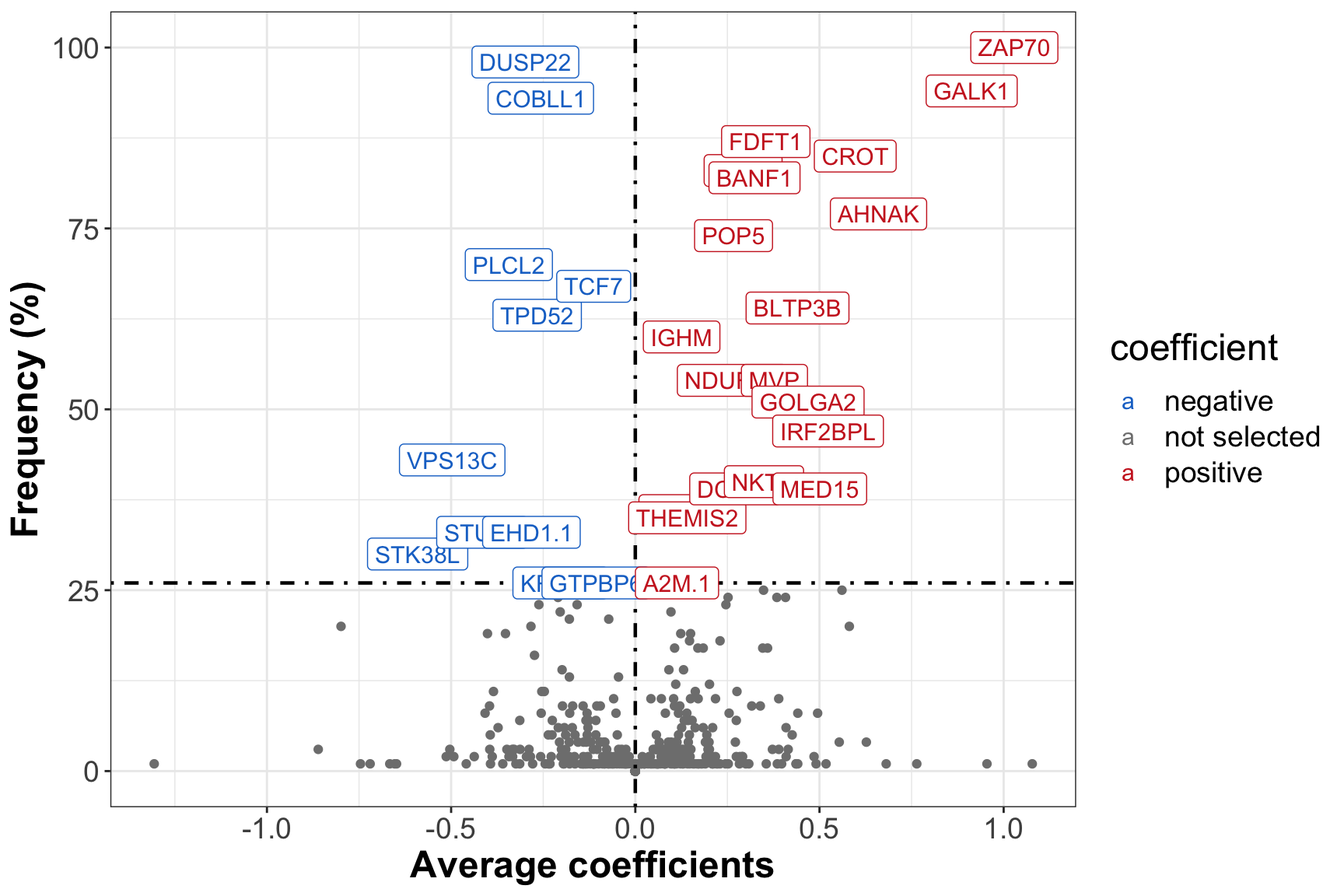
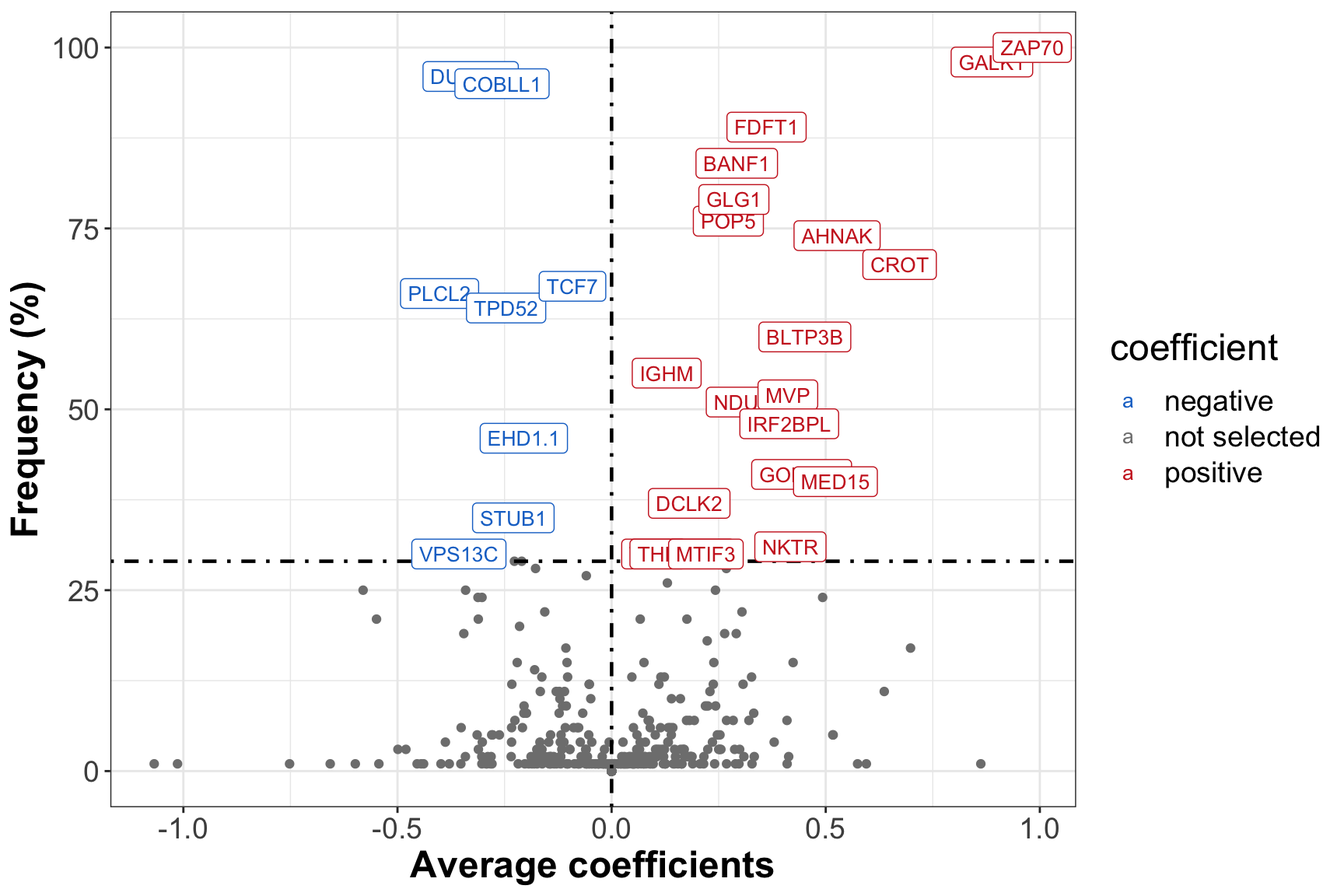
Add files via upload

diff --git a/docs/Spec_IGHV.html b/docs/Spec_IGHV.html
@@ -372,19 +372,20 @@ pre > code.sourceCode > span > a:first-child::before { text-decoration: underlin
 <span id="cb22-28"><a href="#cb22-28" aria-hidden="true" tabindex="-1"></a>  <span class="fu">arrange</span>(<span class="fu">desc</span>(value)) <span class="sc">%&gt;%</span> </span>
 <span id="cb22-29"><a href="#cb22-29" aria-hidden="true" tabindex="-1"></a>  <span class="fu">mutate</span>(<span class="at">cum =</span> <span class="fu">cumsum</span>(count), <span class="at">dif =</span> cum <span class="sc">-</span> NR ) <span class="sc">%&gt;%</span></span>
 <span id="cb22-30"><a href="#cb22-30" aria-hidden="true" tabindex="-1"></a>  <span class="fu">filter</span>(<span class="fu">abs</span>(dif) <span class="sc">==</span> <span class="fu">min</span>(<span class="fu">abs</span>(dif))) <span class="sc">%&gt;%</span></span>
-<span id="cb22-31"><a href="#cb22-31" aria-hidden="true" tabindex="-1"></a>  <span class="fu">pull</span>(value)</span>
-<span id="cb22-32"><a href="#cb22-32" aria-hidden="true" tabindex="-1"></a><span class="co"># frequency vs mean plot</span></span>
-<span id="cb22-33"><a href="#cb22-33" aria-hidden="true" tabindex="-1"></a>sumDF <span class="ot">&lt;-</span> <span class="fu">apply</span>(coefMat, <span class="dv">1</span>, <span class="cf">function</span>(v) <span class="fu">c</span>(<span class="at">mean =</span> <span class="fu">mean</span>(v[v <span class="sc">!=</span> <span class="dv">0</span>]), <span class="at">sd =</span> <span class="fu">sd</span>(v[v <span class="sc">!=</span> <span class="dv">0</span>]))) <span class="sc">%&gt;%</span> </span>
-<span id="cb22-34"><a href="#cb22-34" aria-hidden="true" tabindex="-1"></a>  <span class="fu">ifelse</span>(<span class="fu">is.nan</span>(.) <span class="sc">|</span> <span class="fu">is.na</span>(.), <span class="dv">0</span>, .) <span class="sc">%&gt;%</span></span>
-<span id="cb22-35"><a href="#cb22-35" aria-hidden="true" tabindex="-1"></a>  <span class="fu">t</span>() <span class="sc">%&gt;%</span> </span>
-<span id="cb22-36"><a href="#cb22-36" aria-hidden="true" tabindex="-1"></a>  <span class="fu">as_tibble</span>(<span class="at">rownames =</span> <span class="st">"geneID"</span>) <span class="sc">%&gt;%</span></span>
-<span id="cb22-37"><a href="#cb22-37" aria-hidden="true" tabindex="-1"></a>  <span class="fu">left_join</span>(<span class="fu">as_tibble</span>(<span class="at">rownames =</span> <span class="st">"geneID"</span>, <span class="fu">rowSums</span>(coefMat <span class="sc">!=</span> <span class="dv">0</span>) <span class="sc">/</span> repetition <span class="sc">*</span> <span class="dv">100</span>))  <span class="sc">%&gt;%</span></span>
-<span id="cb22-38"><a href="#cb22-38" aria-hidden="true" tabindex="-1"></a>  <span class="fu">setNames</span>(<span class="fu">c</span>(<span class="st">"geneID"</span>, <span class="st">"mean"</span>, <span class="st">"sd"</span>, <span class="st">"frequency"</span>)) <span class="sc">%&gt;%</span></span>
-<span id="cb22-39"><a href="#cb22-39" aria-hidden="true" tabindex="-1"></a>  <span class="fu">mutate</span>(<span class="at">coefficient =</span> <span class="fu">case_when</span>(mean <span class="sc">&gt;</span> <span class="dv">0</span> <span class="sc">&amp;</span> frequency <span class="sc">&gt;=</span> cutoff <span class="sc">~</span> <span class="st">"positive"</span>, </span>
-<span id="cb22-40"><a href="#cb22-40" aria-hidden="true" tabindex="-1"></a>                                 mean <span class="sc">==</span> <span class="dv">0</span> <span class="sc">|</span> frequency <span class="sc">&lt;</span> cutoff <span class="sc">~</span> <span class="st">"not selected"</span>,</span>
-<span id="cb22-41"><a href="#cb22-41" aria-hidden="true" tabindex="-1"></a>                                 mean <span class="sc">&lt;</span> <span class="dv">0</span> <span class="sc">&amp;</span> frequency <span class="sc">&gt;=</span> cutoff <span class="sc">~</span> <span class="st">"negative"</span>),</span>
-<span id="cb22-42"><a href="#cb22-42" aria-hidden="true" tabindex="-1"></a>         <span class="at">delabel =</span> <span class="fu">ifelse</span>(coefficient <span class="sc">==</span> <span class="st">"not selected"</span>, <span class="cn">NA</span>, geneID))  <span class="sc">%&gt;%</span></span>
-<span id="cb22-43"><a href="#cb22-43" aria-hidden="true" tabindex="-1"></a>  <span class="fu">arrange</span>(mean)</span></code><button title="Copy to Clipboard" class="code-copy-button"><i class="bi"></i></button></pre></div>
+<span id="cb22-31"><a href="#cb22-31" aria-hidden="true" tabindex="-1"></a>  <span class="fu">pull</span>(value) <span class="sc">%&gt;%</span></span>
+<span id="cb22-32"><a href="#cb22-32" aria-hidden="true" tabindex="-1"></a>  <span class="fu">min</span>()</span>
+<span id="cb22-33"><a href="#cb22-33" aria-hidden="true" tabindex="-1"></a><span class="co"># frequency vs mean plot</span></span>
+<span id="cb22-34"><a href="#cb22-34" aria-hidden="true" tabindex="-1"></a>sumDF <span class="ot">&lt;-</span> <span class="fu">apply</span>(coefMat, <span class="dv">1</span>, <span class="cf">function</span>(v) <span class="fu">c</span>(<span class="at">mean =</span> <span class="fu">mean</span>(v[v <span class="sc">!=</span> <span class="dv">0</span>]), <span class="at">sd =</span> <span class="fu">sd</span>(v[v <span class="sc">!=</span> <span class="dv">0</span>]))) <span class="sc">%&gt;%</span> </span>
+<span id="cb22-35"><a href="#cb22-35" aria-hidden="true" tabindex="-1"></a>  <span class="fu">ifelse</span>(<span class="fu">is.nan</span>(.) <span class="sc">|</span> <span class="fu">is.na</span>(.), <span class="dv">0</span>, .) <span class="sc">%&gt;%</span></span>
+<span id="cb22-36"><a href="#cb22-36" aria-hidden="true" tabindex="-1"></a>  <span class="fu">t</span>() <span class="sc">%&gt;%</span> </span>
+<span id="cb22-37"><a href="#cb22-37" aria-hidden="true" tabindex="-1"></a>  <span class="fu">as_tibble</span>(<span class="at">rownames =</span> <span class="st">"geneID"</span>) <span class="sc">%&gt;%</span></span>
+<span id="cb22-38"><a href="#cb22-38" aria-hidden="true" tabindex="-1"></a>  <span class="fu">left_join</span>(<span class="fu">as_tibble</span>(<span class="at">rownames =</span> <span class="st">"geneID"</span>, <span class="fu">rowSums</span>(coefMat <span class="sc">!=</span> <span class="dv">0</span>) <span class="sc">/</span> repetition <span class="sc">*</span> <span class="dv">100</span>))  <span class="sc">%&gt;%</span></span>
+<span id="cb22-39"><a href="#cb22-39" aria-hidden="true" tabindex="-1"></a>  <span class="fu">setNames</span>(<span class="fu">c</span>(<span class="st">"geneID"</span>, <span class="st">"mean"</span>, <span class="st">"sd"</span>, <span class="st">"frequency"</span>)) <span class="sc">%&gt;%</span></span>
+<span id="cb22-40"><a href="#cb22-40" aria-hidden="true" tabindex="-1"></a>  <span class="fu">mutate</span>(<span class="at">coefficient =</span> <span class="fu">case_when</span>(mean <span class="sc">&gt;</span> <span class="dv">0</span> <span class="sc">&amp;</span> frequency <span class="sc">&gt;=</span> cutoff <span class="sc">~</span> <span class="st">"positive"</span>, </span>
+<span id="cb22-41"><a href="#cb22-41" aria-hidden="true" tabindex="-1"></a>                                 mean <span class="sc">==</span> <span class="dv">0</span> <span class="sc">|</span> frequency <span class="sc">&lt;</span> cutoff <span class="sc">~</span> <span class="st">"not selected"</span>,</span>
+<span id="cb22-42"><a href="#cb22-42" aria-hidden="true" tabindex="-1"></a>                                 mean <span class="sc">&lt;</span> <span class="dv">0</span> <span class="sc">&amp;</span> frequency <span class="sc">&gt;=</span> cutoff <span class="sc">~</span> <span class="st">"negative"</span>),</span>
+<span id="cb22-43"><a href="#cb22-43" aria-hidden="true" tabindex="-1"></a>         <span class="at">delabel =</span> <span class="fu">ifelse</span>(coefficient <span class="sc">==</span> <span class="st">"not selected"</span>, <span class="cn">NA</span>, geneID))  <span class="sc">%&gt;%</span></span>
+<span id="cb22-44"><a href="#cb22-44" aria-hidden="true" tabindex="-1"></a>  <span class="fu">arrange</span>(mean)</span></code><button title="Copy to Clipboard" class="code-copy-button"><i class="bi"></i></button></pre></div>
 <div class="cell-output cell-output-stderr">
 <pre><code>Joining with `by = join_by(geneID)`</code></pre>
 </div>
@@ -393,7 +394,7 @@ pre > code.sourceCode > span > a:first-child::before { text-decoration: underlin
 <span id="cb24-3"><a href="#cb24-3" aria-hidden="true" tabindex="-1"></a>  <span class="fu">scale_color_manual</span>(<span class="at">values =</span> <span class="fu">c</span>(<span class="st">"dodgerblue3"</span>, <span class="st">"gray50"</span>, <span class="st">"firebrick3"</span>)) <span class="sc">+</span></span>
 <span id="cb24-4"><a href="#cb24-4" aria-hidden="true" tabindex="-1"></a>  <span class="fu">geom_hline</span>(<span class="at">yintercept =</span> cutoff, <span class="at">lty =</span> <span class="dv">4</span>, <span class="at">col =</span> <span class="st">"black"</span>, <span class="at">lwd =</span> <span class="fl">0.8</span>) <span class="sc">+</span></span>
 <span id="cb24-5"><a href="#cb24-5" aria-hidden="true" tabindex="-1"></a>  <span class="fu">geom_vline</span>(<span class="at">xintercept =</span> <span class="dv">0</span>, <span class="at">lty =</span> <span class="dv">4</span>, <span class="at">col =</span> <span class="st">"black"</span>, <span class="at">lwd =</span> <span class="fl">0.8</span>) <span class="sc">+</span></span>
-<span id="cb24-6"><a href="#cb24-6" aria-hidden="true" tabindex="-1"></a>  <span class="fu">geom_label</span>(<span class="fu">aes</span>(<span class="at">label =</span> delabel), <span class="at">size =</span> <span class="dv">4</span>) <span class="sc">+</span></span>
+<span id="cb24-6"><a href="#cb24-6" aria-hidden="true" tabindex="-1"></a>  <span class="fu">geom_label</span>(<span class="fu">aes</span>(<span class="at">label =</span> delabel), <span class="at">size =</span> <span class="fl">3.5</span>) <span class="sc">+</span></span>
 <span id="cb24-7"><a href="#cb24-7" aria-hidden="true" tabindex="-1"></a>  <span class="fu">labs</span>(<span class="at">x =</span> <span class="st">"Average coefficients"</span>, <span class="at">y =</span> <span class="st">"Frequency (%)"</span>) <span class="sc">+</span></span>
 <span id="cb24-8"><a href="#cb24-8" aria-hidden="true" tabindex="-1"></a>  <span class="fu">theme_bw</span>() <span class="sc">+</span> </span>
 <span id="cb24-9"><a href="#cb24-9" aria-hidden="true" tabindex="-1"></a>  <span class="fu">theme</span>(<span class="at">axis.text =</span> <span class="fu">element_text</span>(<span class="at">size =</span> <span class="dv">14</span>),</span>
@@ -401,7 +402,7 @@ pre > code.sourceCode > span > a:first-child::before { text-decoration: underlin
 <span id="cb24-11"><a href="#cb24-11" aria-hidden="true" tabindex="-1"></a>        <span class="at">legend.title =</span> <span class="fu">element_text</span>(<span class="at">size =</span> <span class="dv">18</span>),</span>
 <span id="cb24-12"><a href="#cb24-12" aria-hidden="true" tabindex="-1"></a>        <span class="at">legend.text =</span> <span class="fu">element_text</span>(<span class="at">size =</span> <span class="dv">14</span>))</span></code><button title="Copy to Clipboard" class="code-copy-button"><i class="bi"></i></button></pre></div>
 <div class="cell-output cell-output-stderr">
-<pre><code>Warning: Removed 5843 rows containing missing values (`geom_label()`).</code></pre>
+<pre><code>Warning: Removed 5844 rows containing missing values (`geom_label()`).</code></pre>
 </div>
 <div class="cell-output-display">
 <p><img src="Spec_IGHV_files/figure-html/unnamed-chunk-6-1.png" class="img-fluid" width="864"></p>
@@ -560,19 +561,20 @@ pre > code.sourceCode > span > a:first-child::before { text-decoration: underlin
 <span id="cb37-28"><a href="#cb37-28" aria-hidden="true" tabindex="-1"></a>  <span class="fu">arrange</span>(<span class="fu">desc</span>(value)) <span class="sc">%&gt;%</span> </span>
 <span id="cb37-29"><a href="#cb37-29" aria-hidden="true" tabindex="-1"></a>  <span class="fu">mutate</span>(<span class="at">cum =</span> <span class="fu">cumsum</span>(count), <span class="at">dif =</span> cum <span class="sc">-</span> NR ) <span class="sc">%&gt;%</span></span>
 <span id="cb37-30"><a href="#cb37-30" aria-hidden="true" tabindex="-1"></a>  <span class="fu">filter</span>(<span class="fu">abs</span>(dif) <span class="sc">==</span> <span class="fu">min</span>(<span class="fu">abs</span>(dif))) <span class="sc">%&gt;%</span></span>
-<span id="cb37-31"><a href="#cb37-31" aria-hidden="true" tabindex="-1"></a>  <span class="fu">pull</span>(value)</span>
-<span id="cb37-32"><a href="#cb37-32" aria-hidden="true" tabindex="-1"></a><span class="co"># frequency vs mean plot</span></span>
-<span id="cb37-33"><a href="#cb37-33" aria-hidden="true" tabindex="-1"></a>sumDF <span class="ot">&lt;-</span> <span class="fu">apply</span>(coefMat, <span class="dv">1</span>, <span class="cf">function</span>(v) <span class="fu">c</span>(<span class="at">mean =</span> <span class="fu">mean</span>(v[v <span class="sc">!=</span> <span class="dv">0</span>]), <span class="at">sd =</span> <span class="fu">sd</span>(v[v <span class="sc">!=</span> <span class="dv">0</span>]))) <span class="sc">%&gt;%</span> </span>
-<span id="cb37-34"><a href="#cb37-34" aria-hidden="true" tabindex="-1"></a>  <span class="fu">ifelse</span>(<span class="fu">is.nan</span>(.) <span class="sc">|</span> <span class="fu">is.na</span>(.), <span class="dv">0</span>, .) <span class="sc">%&gt;%</span></span>
-<span id="cb37-35"><a href="#cb37-35" aria-hidden="true" tabindex="-1"></a>  <span class="fu">t</span>() <span class="sc">%&gt;%</span> </span>
-<span id="cb37-36"><a href="#cb37-36" aria-hidden="true" tabindex="-1"></a>  <span class="fu">as_tibble</span>(<span class="at">rownames =</span> <span class="st">"geneID"</span>) <span class="sc">%&gt;%</span></span>
-<span id="cb37-37"><a href="#cb37-37" aria-hidden="true" tabindex="-1"></a>  <span class="fu">left_join</span>(<span class="fu">as_tibble</span>(<span class="at">rownames =</span> <span class="st">"geneID"</span>, <span class="fu">rowSums</span>(coefMat <span class="sc">!=</span> <span class="dv">0</span>) <span class="sc">/</span> repetition <span class="sc">*</span> <span class="dv">100</span>))  <span class="sc">%&gt;%</span></span>
-<span id="cb37-38"><a href="#cb37-38" aria-hidden="true" tabindex="-1"></a>  <span class="fu">setNames</span>(<span class="fu">c</span>(<span class="st">"geneID"</span>, <span class="st">"mean"</span>, <span class="st">"sd"</span>, <span class="st">"frequency"</span>)) <span class="sc">%&gt;%</span></span>
-<span id="cb37-39"><a href="#cb37-39" aria-hidden="true" tabindex="-1"></a>  <span class="fu">mutate</span>(<span class="at">coefficient =</span> <span class="fu">case_when</span>(mean <span class="sc">&gt;</span> <span class="dv">0</span> <span class="sc">&amp;</span> frequency <span class="sc">&gt;=</span> cutoff <span class="sc">~</span> <span class="st">"positive"</span>, </span>
-<span id="cb37-40"><a href="#cb37-40" aria-hidden="true" tabindex="-1"></a>                                 mean <span class="sc">==</span> <span class="dv">0</span> <span class="sc">|</span> frequency <span class="sc">&lt;</span> cutoff <span class="sc">~</span> <span class="st">"not selected"</span>,</span>
-<span id="cb37-41"><a href="#cb37-41" aria-hidden="true" tabindex="-1"></a>                                 mean <span class="sc">&lt;</span> <span class="dv">0</span> <span class="sc">&amp;</span> frequency <span class="sc">&gt;=</span> cutoff <span class="sc">~</span> <span class="st">"negative"</span>),</span>
-<span id="cb37-42"><a href="#cb37-42" aria-hidden="true" tabindex="-1"></a>         <span class="at">delabel =</span> <span class="fu">ifelse</span>(coefficient <span class="sc">==</span> <span class="st">"not selected"</span>, <span class="cn">NA</span>, geneID))  <span class="sc">%&gt;%</span></span>
-<span id="cb37-43"><a href="#cb37-43" aria-hidden="true" tabindex="-1"></a>  <span class="fu">arrange</span>(mean)</span></code><button title="Copy to Clipboard" class="code-copy-button"><i class="bi"></i></button></pre></div>
+<span id="cb37-31"><a href="#cb37-31" aria-hidden="true" tabindex="-1"></a>  <span class="fu">pull</span>(value) <span class="sc">%&gt;%</span></span>
+<span id="cb37-32"><a href="#cb37-32" aria-hidden="true" tabindex="-1"></a>  <span class="fu">min</span>()</span>
+<span id="cb37-33"><a href="#cb37-33" aria-hidden="true" tabindex="-1"></a><span class="co"># frequency vs mean plot</span></span>
+<span id="cb37-34"><a href="#cb37-34" aria-hidden="true" tabindex="-1"></a>sumDF <span class="ot">&lt;-</span> <span class="fu">apply</span>(coefMat, <span class="dv">1</span>, <span class="cf">function</span>(v) <span class="fu">c</span>(<span class="at">mean =</span> <span class="fu">mean</span>(v[v <span class="sc">!=</span> <span class="dv">0</span>]), <span class="at">sd =</span> <span class="fu">sd</span>(v[v <span class="sc">!=</span> <span class="dv">0</span>]))) <span class="sc">%&gt;%</span> </span>
+<span id="cb37-35"><a href="#cb37-35" aria-hidden="true" tabindex="-1"></a>  <span class="fu">ifelse</span>(<span class="fu">is.nan</span>(.) <span class="sc">|</span> <span class="fu">is.na</span>(.), <span class="dv">0</span>, .) <span class="sc">%&gt;%</span></span>
+<span id="cb37-36"><a href="#cb37-36" aria-hidden="true" tabindex="-1"></a>  <span class="fu">t</span>() <span class="sc">%&gt;%</span> </span>
+<span id="cb37-37"><a href="#cb37-37" aria-hidden="true" tabindex="-1"></a>  <span class="fu">as_tibble</span>(<span class="at">rownames =</span> <span class="st">"geneID"</span>) <span class="sc">%&gt;%</span></span>
+<span id="cb37-38"><a href="#cb37-38" aria-hidden="true" tabindex="-1"></a>  <span class="fu">left_join</span>(<span class="fu">as_tibble</span>(<span class="at">rownames =</span> <span class="st">"geneID"</span>, <span class="fu">rowSums</span>(coefMat <span class="sc">!=</span> <span class="dv">0</span>) <span class="sc">/</span> repetition <span class="sc">*</span> <span class="dv">100</span>))  <span class="sc">%&gt;%</span></span>
+<span id="cb37-39"><a href="#cb37-39" aria-hidden="true" tabindex="-1"></a>  <span class="fu">setNames</span>(<span class="fu">c</span>(<span class="st">"geneID"</span>, <span class="st">"mean"</span>, <span class="st">"sd"</span>, <span class="st">"frequency"</span>)) <span class="sc">%&gt;%</span></span>
+<span id="cb37-40"><a href="#cb37-40" aria-hidden="true" tabindex="-1"></a>  <span class="fu">mutate</span>(<span class="at">coefficient =</span> <span class="fu">case_when</span>(mean <span class="sc">&gt;</span> <span class="dv">0</span> <span class="sc">&amp;</span> frequency <span class="sc">&gt;=</span> cutoff <span class="sc">~</span> <span class="st">"positive"</span>, </span>
+<span id="cb37-41"><a href="#cb37-41" aria-hidden="true" tabindex="-1"></a>                                 mean <span class="sc">==</span> <span class="dv">0</span> <span class="sc">|</span> frequency <span class="sc">&lt;</span> cutoff <span class="sc">~</span> <span class="st">"not selected"</span>,</span>
+<span id="cb37-42"><a href="#cb37-42" aria-hidden="true" tabindex="-1"></a>                                 mean <span class="sc">&lt;</span> <span class="dv">0</span> <span class="sc">&amp;</span> frequency <span class="sc">&gt;=</span> cutoff <span class="sc">~</span> <span class="st">"negative"</span>),</span>
+<span id="cb37-43"><a href="#cb37-43" aria-hidden="true" tabindex="-1"></a>         <span class="at">delabel =</span> <span class="fu">ifelse</span>(coefficient <span class="sc">==</span> <span class="st">"not selected"</span>, <span class="cn">NA</span>, geneID))  <span class="sc">%&gt;%</span></span>
+<span id="cb37-44"><a href="#cb37-44" aria-hidden="true" tabindex="-1"></a>  <span class="fu">arrange</span>(mean)</span></code><button title="Copy to Clipboard" class="code-copy-button"><i class="bi"></i></button></pre></div>
 <div class="cell-output cell-output-stderr">
 <pre><code>Joining with `by = join_by(geneID)`</code></pre>
 </div>
@@ -581,7 +583,7 @@ pre > code.sourceCode > span > a:first-child::before { text-decoration: underlin
 <span id="cb39-3"><a href="#cb39-3" aria-hidden="true" tabindex="-1"></a>  <span class="fu">scale_color_manual</span>(<span class="at">values =</span> <span class="fu">c</span>(<span class="st">"dodgerblue3"</span>, <span class="st">"gray50"</span>, <span class="st">"firebrick3"</span>)) <span class="sc">+</span></span>
 <span id="cb39-4"><a href="#cb39-4" aria-hidden="true" tabindex="-1"></a>  <span class="fu">geom_hline</span>(<span class="at">yintercept =</span> cutoff, <span class="at">lty =</span> <span class="dv">4</span>, <span class="at">col =</span> <span class="st">"black"</span>, <span class="at">lwd =</span> <span class="fl">0.8</span>) <span class="sc">+</span></span>
 <span id="cb39-5"><a href="#cb39-5" aria-hidden="true" tabindex="-1"></a>  <span class="fu">geom_vline</span>(<span class="at">xintercept =</span> <span class="dv">0</span>, <span class="at">lty =</span> <span class="dv">4</span>, <span class="at">col =</span> <span class="st">"black"</span>, <span class="at">lwd =</span> <span class="fl">0.8</span>) <span class="sc">+</span></span>
-<span id="cb39-6"><a href="#cb39-6" aria-hidden="true" tabindex="-1"></a>  <span class="fu">geom_label</span>(<span class="fu">aes</span>(<span class="at">label =</span> delabel), <span class="at">size =</span> <span class="dv">4</span>) <span class="sc">+</span></span>
+<span id="cb39-6"><a href="#cb39-6" aria-hidden="true" tabindex="-1"></a>  <span class="fu">geom_label</span>(<span class="fu">aes</span>(<span class="at">label =</span> delabel), <span class="at">size =</span> <span class="fl">3.5</span>) <span class="sc">+</span></span>
 <span id="cb39-7"><a href="#cb39-7" aria-hidden="true" tabindex="-1"></a>  <span class="fu">labs</span>(<span class="at">x =</span> <span class="st">"Average coefficients"</span>, <span class="at">y =</span> <span class="st">"Frequency (%)"</span>) <span class="sc">+</span></span>
 <span id="cb39-8"><a href="#cb39-8" aria-hidden="true" tabindex="-1"></a>  <span class="fu">theme_bw</span>() <span class="sc">+</span> </span>
 <span id="cb39-9"><a href="#cb39-9" aria-hidden="true" tabindex="-1"></a>  <span class="fu">theme</span>(<span class="at">axis.text =</span> <span class="fu">element_text</span>(<span class="at">size =</span> <span class="dv">14</span>),</span>

diff --git a/docs/Diann_IGHV.html b/docs/Diann_IGHV.html
@@ -391,7 +391,7 @@ pre > code.sourceCode > span > a:first-child::before { text-decoration: underlin
 <span id="cb22-3"><a href="#cb22-3" aria-hidden="true" tabindex="-1"></a>  <span class="fu">scale_color_manual</span>(<span class="at">values =</span> <span class="fu">c</span>(<span class="st">"dodgerblue3"</span>, <span class="st">"gray50"</span>, <span class="st">"firebrick3"</span>)) <span class="sc">+</span></span>
 <span id="cb22-4"><a href="#cb22-4" aria-hidden="true" tabindex="-1"></a>  <span class="fu">geom_hline</span>(<span class="at">yintercept =</span> cutoff, <span class="at">lty =</span> <span class="dv">4</span>, <span class="at">col =</span> <span class="st">"black"</span>, <span class="at">lwd =</span> <span class="fl">0.8</span>) <span class="sc">+</span></span>
 <span id="cb22-5"><a href="#cb22-5" aria-hidden="true" tabindex="-1"></a>  <span class="fu">geom_vline</span>(<span class="at">xintercept =</span> <span class="dv">0</span>, <span class="at">lty =</span> <span class="dv">4</span>, <span class="at">col =</span> <span class="st">"black"</span>, <span class="at">lwd =</span> <span class="fl">0.8</span>) <span class="sc">+</span></span>
-<span id="cb22-6"><a href="#cb22-6" aria-hidden="true" tabindex="-1"></a>  <span class="fu">geom_label</span>(<span class="fu">aes</span>(<span class="at">label =</span> delabel), <span class="at">size =</span> <span class="dv">4</span>) <span class="sc">+</span></span>
+<span id="cb22-6"><a href="#cb22-6" aria-hidden="true" tabindex="-1"></a>  <span class="fu">geom_label</span>(<span class="fu">aes</span>(<span class="at">label =</span> delabel), <span class="at">size =</span> <span class="fl">3.5</span>) <span class="sc">+</span></span>
 <span id="cb22-7"><a href="#cb22-7" aria-hidden="true" tabindex="-1"></a>  <span class="fu">labs</span>(<span class="at">x =</span> <span class="st">"Average coefficients"</span>, <span class="at">y =</span> <span class="st">"Frequency (%)"</span>) <span class="sc">+</span></span>
 <span id="cb22-8"><a href="#cb22-8" aria-hidden="true" tabindex="-1"></a>  <span class="fu">theme_bw</span>() <span class="sc">+</span> </span>
 <span id="cb22-9"><a href="#cb22-9" aria-hidden="true" tabindex="-1"></a>  <span class="fu">theme</span>(<span class="at">axis.text =</span> <span class="fu">element_text</span>(<span class="at">size =</span> <span class="dv">14</span>),</span>
@@ -399,7 +399,7 @@ pre > code.sourceCode > span > a:first-child::before { text-decoration: underlin
 <span id="cb22-11"><a href="#cb22-11" aria-hidden="true" tabindex="-1"></a>        <span class="at">legend.title =</span> <span class="fu">element_text</span>(<span class="at">size =</span> <span class="dv">18</span>),</span>
 <span id="cb22-12"><a href="#cb22-12" aria-hidden="true" tabindex="-1"></a>        <span class="at">legend.text =</span> <span class="fu">element_text</span>(<span class="at">size =</span> <span class="dv">14</span>))</span></code><button title="Copy to Clipboard" class="code-copy-button"><i class="bi"></i></button></pre></div>
 <div class="cell-output cell-output-stderr">
-<pre><code>Warning: Removed 6650 rows containing missing values (`geom_label()`).</code></pre>
+<pre><code>Warning: Removed 6653 rows containing missing values (`geom_label()`).</code></pre>
 </div>
 <div class="cell-output-display">
 <p><img src="Diann_IGHV_files/figure-html/unnamed-chunk-6-1.png" class="img-fluid" width="864"></p>
@@ -558,19 +558,20 @@ pre > code.sourceCode > span > a:first-child::before { text-decoration: underlin
 <span id="cb35-28"><a href="#cb35-28" aria-hidden="true" tabindex="-1"></a>  <span class="fu">arrange</span>(<span class="fu">desc</span>(value)) <span class="sc">%&gt;%</span> </span>
 <span id="cb35-29"><a href="#cb35-29" aria-hidden="true" tabindex="-1"></a>  <span class="fu">mutate</span>(<span class="at">cum =</span> <span class="fu">cumsum</span>(count), <span class="at">dif =</span> cum <span class="sc">-</span> NR ) <span class="sc">%&gt;%</span></span>
 <span id="cb35-30"><a href="#cb35-30" aria-hidden="true" tabindex="-1"></a>  <span class="fu">filter</span>(<span class="fu">abs</span>(dif) <span class="sc">==</span> <span class="fu">min</span>(<span class="fu">abs</span>(dif))) <span class="sc">%&gt;%</span></span>
-<span id="cb35-31"><a href="#cb35-31" aria-hidden="true" tabindex="-1"></a>  <span class="fu">pull</span>(value)</span>
-<span id="cb35-32"><a href="#cb35-32" aria-hidden="true" tabindex="-1"></a><span class="co"># frequency vs mean plot</span></span>
-<span id="cb35-33"><a href="#cb35-33" aria-hidden="true" tabindex="-1"></a>sumDF <span class="ot">&lt;-</span> <span class="fu">apply</span>(coefMat, <span class="dv">1</span>, <span class="cf">function</span>(v) <span class="fu">c</span>(<span class="at">mean =</span> <span class="fu">mean</span>(v[v <span class="sc">!=</span> <span class="dv">0</span>]), <span class="at">sd =</span> <span class="fu">sd</span>(v[v <span class="sc">!=</span> <span class="dv">0</span>]))) <span class="sc">%&gt;%</span> </span>
-<span id="cb35-34"><a href="#cb35-34" aria-hidden="true" tabindex="-1"></a>  <span class="fu">ifelse</span>(<span class="fu">is.nan</span>(.) <span class="sc">|</span> <span class="fu">is.na</span>(.), <span class="dv">0</span>, .) <span class="sc">%&gt;%</span></span>
-<span id="cb35-35"><a href="#cb35-35" aria-hidden="true" tabindex="-1"></a>  <span class="fu">t</span>() <span class="sc">%&gt;%</span> </span>
-<span id="cb35-36"><a href="#cb35-36" aria-hidden="true" tabindex="-1"></a>  <span class="fu">as_tibble</span>(<span class="at">rownames =</span> <span class="st">"geneID"</span>) <span class="sc">%&gt;%</span></span>
-<span id="cb35-37"><a href="#cb35-37" aria-hidden="true" tabindex="-1"></a>  <span class="fu">left_join</span>(<span class="fu">as_tibble</span>(<span class="at">rownames =</span> <span class="st">"geneID"</span>, <span class="fu">rowSums</span>(coefMat <span class="sc">!=</span> <span class="dv">0</span>) <span class="sc">/</span> repetition <span class="sc">*</span> <span class="dv">100</span>))  <span class="sc">%&gt;%</span></span>
-<span id="cb35-38"><a href="#cb35-38" aria-hidden="true" tabindex="-1"></a>  <span class="fu">setNames</span>(<span class="fu">c</span>(<span class="st">"geneID"</span>, <span class="st">"mean"</span>, <span class="st">"sd"</span>, <span class="st">"frequency"</span>)) <span class="sc">%&gt;%</span></span>
-<span id="cb35-39"><a href="#cb35-39" aria-hidden="true" tabindex="-1"></a>  <span class="fu">mutate</span>(<span class="at">coefficient =</span> <span class="fu">case_when</span>(mean <span class="sc">&gt;</span> <span class="dv">0</span> <span class="sc">&amp;</span> frequency <span class="sc">&gt;=</span> cutoff <span class="sc">~</span> <span class="st">"positive"</span>, </span>
-<span id="cb35-40"><a href="#cb35-40" aria-hidden="true" tabindex="-1"></a>                                 mean <span class="sc">==</span> <span class="dv">0</span> <span class="sc">|</span> frequency <span class="sc">&lt;</span> cutoff <span class="sc">~</span> <span class="st">"not selected"</span>,</span>
-<span id="cb35-41"><a href="#cb35-41" aria-hidden="true" tabindex="-1"></a>                                 mean <span class="sc">&lt;</span> <span class="dv">0</span> <span class="sc">&amp;</span> frequency <span class="sc">&gt;=</span> cutoff <span class="sc">~</span> <span class="st">"negative"</span>),</span>
-<span id="cb35-42"><a href="#cb35-42" aria-hidden="true" tabindex="-1"></a>         <span class="at">delabel =</span> <span class="fu">ifelse</span>(coefficient <span class="sc">==</span> <span class="st">"not selected"</span>, <span class="cn">NA</span>, geneID))  <span class="sc">%&gt;%</span></span>
-<span id="cb35-43"><a href="#cb35-43" aria-hidden="true" tabindex="-1"></a>  <span class="fu">arrange</span>(mean)</span></code><button title="Copy to Clipboard" class="code-copy-button"><i class="bi"></i></button></pre></div>
+<span id="cb35-31"><a href="#cb35-31" aria-hidden="true" tabindex="-1"></a>  <span class="fu">pull</span>(value) <span class="sc">%&gt;%</span></span>
+<span id="cb35-32"><a href="#cb35-32" aria-hidden="true" tabindex="-1"></a>  <span class="fu">min</span>()</span>
+<span id="cb35-33"><a href="#cb35-33" aria-hidden="true" tabindex="-1"></a><span class="co"># frequency vs mean plot</span></span>
+<span id="cb35-34"><a href="#cb35-34" aria-hidden="true" tabindex="-1"></a>sumDF <span class="ot">&lt;-</span> <span class="fu">apply</span>(coefMat, <span class="dv">1</span>, <span class="cf">function</span>(v) <span class="fu">c</span>(<span class="at">mean =</span> <span class="fu">mean</span>(v[v <span class="sc">!=</span> <span class="dv">0</span>]), <span class="at">sd =</span> <span class="fu">sd</span>(v[v <span class="sc">!=</span> <span class="dv">0</span>]))) <span class="sc">%&gt;%</span> </span>
+<span id="cb35-35"><a href="#cb35-35" aria-hidden="true" tabindex="-1"></a>  <span class="fu">ifelse</span>(<span class="fu">is.nan</span>(.) <span class="sc">|</span> <span class="fu">is.na</span>(.), <span class="dv">0</span>, .) <span class="sc">%&gt;%</span></span>
+<span id="cb35-36"><a href="#cb35-36" aria-hidden="true" tabindex="-1"></a>  <span class="fu">t</span>() <span class="sc">%&gt;%</span> </span>
+<span id="cb35-37"><a href="#cb35-37" aria-hidden="true" tabindex="-1"></a>  <span class="fu">as_tibble</span>(<span class="at">rownames =</span> <span class="st">"geneID"</span>) <span class="sc">%&gt;%</span></span>
+<span id="cb35-38"><a href="#cb35-38" aria-hidden="true" tabindex="-1"></a>  <span class="fu">left_join</span>(<span class="fu">as_tibble</span>(<span class="at">rownames =</span> <span class="st">"geneID"</span>, <span class="fu">rowSums</span>(coefMat <span class="sc">!=</span> <span class="dv">0</span>) <span class="sc">/</span> repetition <span class="sc">*</span> <span class="dv">100</span>))  <span class="sc">%&gt;%</span></span>
+<span id="cb35-39"><a href="#cb35-39" aria-hidden="true" tabindex="-1"></a>  <span class="fu">setNames</span>(<span class="fu">c</span>(<span class="st">"geneID"</span>, <span class="st">"mean"</span>, <span class="st">"sd"</span>, <span class="st">"frequency"</span>)) <span class="sc">%&gt;%</span></span>
+<span id="cb35-40"><a href="#cb35-40" aria-hidden="true" tabindex="-1"></a>  <span class="fu">mutate</span>(<span class="at">coefficient =</span> <span class="fu">case_when</span>(mean <span class="sc">&gt;</span> <span class="dv">0</span> <span class="sc">&amp;</span> frequency <span class="sc">&gt;=</span> cutoff <span class="sc">~</span> <span class="st">"positive"</span>, </span>
+<span id="cb35-41"><a href="#cb35-41" aria-hidden="true" tabindex="-1"></a>                                 mean <span class="sc">==</span> <span class="dv">0</span> <span class="sc">|</span> frequency <span class="sc">&lt;</span> cutoff <span class="sc">~</span> <span class="st">"not selected"</span>,</span>
+<span id="cb35-42"><a href="#cb35-42" aria-hidden="true" tabindex="-1"></a>                                 mean <span class="sc">&lt;</span> <span class="dv">0</span> <span class="sc">&amp;</span> frequency <span class="sc">&gt;=</span> cutoff <span class="sc">~</span> <span class="st">"negative"</span>),</span>
+<span id="cb35-43"><a href="#cb35-43" aria-hidden="true" tabindex="-1"></a>         <span class="at">delabel =</span> <span class="fu">ifelse</span>(coefficient <span class="sc">==</span> <span class="st">"not selected"</span>, <span class="cn">NA</span>, geneID))  <span class="sc">%&gt;%</span></span>
+<span id="cb35-44"><a href="#cb35-44" aria-hidden="true" tabindex="-1"></a>  <span class="fu">arrange</span>(mean)</span></code><button title="Copy to Clipboard" class="code-copy-button"><i class="bi"></i></button></pre></div>
 <div class="cell-output cell-output-stderr">
 <pre><code>Joining with `by = join_by(geneID)`</code></pre>
 </div>
@@ -579,7 +580,7 @@ pre > code.sourceCode > span > a:first-child::before { text-decoration: underlin
 <span id="cb37-3"><a href="#cb37-3" aria-hidden="true" tabindex="-1"></a>  <span class="fu">scale_color_manual</span>(<span class="at">values =</span> <span class="fu">c</span>(<span class="st">"dodgerblue3"</span>, <span class="st">"gray50"</span>, <span class="st">"firebrick3"</span>)) <span class="sc">+</span></span>
 <span id="cb37-4"><a href="#cb37-4" aria-hidden="true" tabindex="-1"></a>  <span class="fu">geom_hline</span>(<span class="at">yintercept =</span> cutoff, <span class="at">lty =</span> <span class="dv">4</span>, <span class="at">col =</span> <span class="st">"black"</span>, <span class="at">lwd =</span> <span class="fl">0.8</span>) <span class="sc">+</span></span>
 <span id="cb37-5"><a href="#cb37-5" aria-hidden="true" tabindex="-1"></a>  <span class="fu">geom_vline</span>(<span class="at">xintercept =</span> <span class="dv">0</span>, <span class="at">lty =</span> <span class="dv">4</span>, <span class="at">col =</span> <span class="st">"black"</span>, <span class="at">lwd =</span> <span class="fl">0.8</span>) <span class="sc">+</span></span>
-<span id="cb37-6"><a href="#cb37-6" aria-hidden="true" tabindex="-1"></a>  <span class="fu">geom_label</span>(<span class="fu">aes</span>(<span class="at">label =</span> delabel), <span class="at">size =</span> <span class="dv">4</span>) <span class="sc">+</span></span>
+<span id="cb37-6"><a href="#cb37-6" aria-hidden="true" tabindex="-1"></a>  <span class="fu">geom_label</span>(<span class="fu">aes</span>(<span class="at">label =</span> delabel), <span class="at">size =</span> <span class="fl">3.5</span>) <span class="sc">+</span></span>
 <span id="cb37-7"><a href="#cb37-7" aria-hidden="true" tabindex="-1"></a>  <span class="fu">labs</span>(<span class="at">x =</span> <span class="st">"Average coefficients"</span>, <span class="at">y =</span> <span class="st">"Frequency (%)"</span>) <span class="sc">+</span></span>
 <span id="cb37-8"><a href="#cb37-8" aria-hidden="true" tabindex="-1"></a>  <span class="fu">theme_bw</span>() <span class="sc">+</span> </span>
 <span id="cb37-9"><a href="#cb37-9" aria-hidden="true" tabindex="-1"></a>  <span class="fu">theme</span>(<span class="at">axis.text =</span> <span class="fu">element_text</span>(<span class="at">size =</span> <span class="dv">14</span>),</span>
@@ -587,7 +588,7 @@ pre > code.sourceCode > span > a:first-child::before { text-decoration: underlin
 <span id="cb37-11"><a href="#cb37-11" aria-hidden="true" tabindex="-1"></a>        <span class="at">legend.title =</span> <span class="fu">element_text</span>(<span class="at">size =</span> <span class="dv">18</span>),</span>
 <span id="cb37-12"><a href="#cb37-12" aria-hidden="true" tabindex="-1"></a>        <span class="at">legend.text =</span> <span class="fu">element_text</span>(<span class="at">size =</span> <span class="dv">14</span>))</span></code><button title="Copy to Clipboard" class="code-copy-button"><i class="bi"></i></button></pre></div>
 <div class="cell-output cell-output-stderr">
-<pre><code>Warning: Removed 6625 rows containing missing values (`geom_label()`).</code></pre>
+<pre><code>Warning: Removed 6626 rows containing missing values (`geom_label()`).</code></pre>
 </div>
 <div class="cell-output-display">
 <p><img src="Diann_IGHV_files/figure-html/unnamed-chunk-9-1.png" class="img-fluid" width="864"></p>
